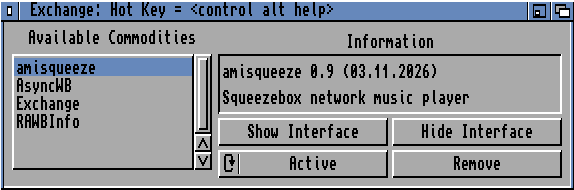
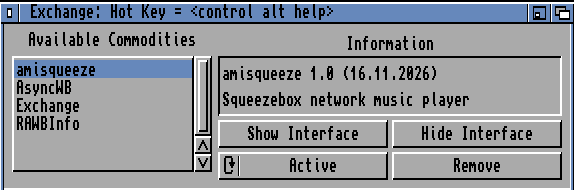
Release amisqueeze 1.0
Checks before the tag on this build, in WinUAE (JIT, 68882 with compfpu):
the eight scenarios of run-scenarios.py OK, Music Assistant's two
included; Version FULL gives "amisqueeze 1.0 (11/16/2026)" and
"amisqueeze.fpu 1.0 (11/16/2026)". By ear (the user): amisqueeze
AUDIO=PAULA, song-44k.flac from LMS, the right pitch, clean, the channels
in place. SHA-256 of the executables: amisqueeze
adf495a61c273969c812c9ac2000106067aa22ef2ea43ffc47e4f9d9309c4d48,
amisqueeze.fpu
d4672638088a140587bef4f1b8b034a2c1de758182e132d942eae3c7c8be5834.
make dist (release mode) and make test pass. images/exchange.png taken
again with this build (Exchange showing "amisqueeze 1.0 (16.11.2026)").

The stack measured at player-23 (AUDIO=PAULA, and amisqueeze.fpu) still
holds: since then, only a few messages changed in the code; no new
decoder, library or start-up path. The making of the archive changed
since 0.9 (names without the version, the drawer icon, make-dist.py):
the draft's .lha is to be tried in WinUAE before it is published.

From 1.0, no longer a preview: the README's status badge reads stable,
the CHANGELOG says the versions before 1.0 were previews, the draft's
notes drop "preview" (release.yml marks only 0.x as pre-release, as
releasing.md now says).

diff --git a/src/amisqueeze/slimproto.c b/src/amisqueeze/slimproto.c
@@ -24,7 +24,7 @@
  * decoded here); the server converts the rest. HasDigitalOut=1: LMS then offers its "Volume Control" setting for
  * this player, whose "Output level is fixed at 100%" sends audg with adjust 0.
  * MaxSampleRate follows: the MAXRATE option, 48000 without it. */
-#define CAPS "Model=squeezelite,ModelName=AmiSqueeze,Firmware=1.0-dev,AccuratePlayPoints=0,HasDigitalOut=1," \
+#define CAPS "Model=squeezelite,ModelName=AmiSqueeze,Firmware=1.0,AccuratePlayPoints=0,HasDigitalOut=1," \
              "MaxSampleRate="
 
 /* ---- serialisation ---- */

diff --git a/src/amisqueeze/amiga.c b/src/amisqueeze/amiga.c
@@ -42,9 +42,9 @@
  * at link time (--gc-sections), and Version would find nothing. Not const: in the data hunk. In the code hunk,
  * AmigaOS 3.2's Version read a garbled name ("amiseeze"), though the bytes were right. */
 #ifdef AMISQUEEZE_FPU
-static char version[] = "$VER: amisqueeze.fpu 1.0-dev (03.11.2026)";
+static char version[] = "$VER: amisqueeze.fpu 1.0 (16.11.2026)";
 #else
-static char version[] = "$VER: amisqueeze 1.0-dev (03.11.2026)";
+static char version[] = "$VER: amisqueeze 1.0 (16.11.2026)";
 #endif
 
 #ifdef AMISQUEEZE_FPU

diff --git a/docs/development/README.md b/docs/development/README.md
@@ -55,7 +55,7 @@ agreed with the user.
 | 0.1 to 0.7 | the player for LMS and Music Assistant: PCM, FLAC, MP3, start from the Workbench, the `.lha`, releases built by the CI | player-1 to player-8d, player-7b, part of player-10, tools-10 (LMS), publish-2 (`.lha`), publish-3 | ✅, see the [changelog](../../CHANGELOG.md) |
 | 0.8 | what the real machine shows; a lower rate asked of the server; automatic server discovery; hardening; the writing rules applied to the documentation | player-9, player-10 (discovery), player-12, player-13, player-14, player-15, player-16, player-17, tools-11, tools-13, publish-6 | ✅, see the [changelog](../../CHANGELOG.md) |
 | 0.9 | internet radios' metadata (ICY); the window shown and hidden from Exchange; finishing touches after the 0.8 reviews; the code's size and complexity checked; a readable architecture page; the technical documentation organised | player-10 (end), tools-14, player-18, player-19, publish-7, publish-8, player-20, player-21 | ✅, see the [changelog](../../CHANGELOG.md) |
-| 1.0 | `stream.c` and the unit tests split; a direct Paula output; a page on performance; a guide to the Amiga on the network, a full audit, the upload to Aminet | player-22, player-11, publish-9, publish-4, publish-5, tools-10 (Music Assistant), player-23, publish-2 (Aminet) | ⬜ |
+| 1.0 | `stream.c` and the unit tests split; a direct Paula output; a page on performance; a guide to the Amiga on the network, a full audit, the upload to Aminet | player-22, player-11, publish-9, publish-4, publish-5, tools-10 (Music Assistant), player-23, publish-2 (Aminet) | 🔶 its steps done and the checks before the tag; the draft made from the tag, then published by the user, and the upload to Aminet |
 | none yet | what the 1.0 reviews left below 75: section 5 of [1.0](reviews/1.0.md) and of its [light review](reviews/1.0-light.md); taken up when work on amisqueeze resumes, or sooner on a user's report (agreed with the user) | a step to name then | ⬜ |
 | none yet | idea: source-level debugging | tools-8 | ⬜ |
 | none | reference documents on AmigaOS for contributors, committed when ready (agreed with the user) | tools-12 | ⬜ |

diff --git a/CHANGELOG.md b/CHANGELOG.md
@@ -2,10 +2,12 @@
 
 What changed in each release of amisqueeze, the newest first. The format follows
 [Keep a Changelog](https://keepachangelog.com/en/1.1.0/); versions are those of the
-[releases](https://github.com/shadow38/amiga-network-music/releases) (tags `amisqueeze-<version>`). All of them
-are previews, until 1.0.
+[releases](https://github.com/shadow38/amiga-network-music/releases) (tags `amisqueeze-<version>`). The versions
+before 1.0 were previews.
 
 ## [Unreleased]
+
+## [1.0] - 2026-11-16
 
 ### Added
 
@@ -279,7 +281,8 @@ Lyrion Music Server (LMS) as a player and plays through AHI.
 - Options `SERVER`, `PORT`, `NAME`, `MAC`, `UNIT` (AHI unit), `SWAP`, `NOAUDIO`, `OUTPUT`, `VERBOSE`; default
   options in `ENV:amisqueeze.prefs`.
 
-[Unreleased]: https://github.com/shadow38/amiga-network-music/compare/amisqueeze-0.9...HEAD
+[Unreleased]: https://github.com/shadow38/amiga-network-music/compare/amisqueeze-1.0...HEAD
+[1.0]: https://github.com/shadow38/amiga-network-music/compare/amisqueeze-0.9...amisqueeze-1.0
 [0.9]: https://github.com/shadow38/amiga-network-music/compare/amisqueeze-0.8...amisqueeze-0.9
 [0.8]: https://github.com/shadow38/amiga-network-music/compare/amisqueeze-0.7...amisqueeze-0.8
 [0.7]: https://github.com/shadow38/amiga-network-music/compare/amisqueeze-0.6...amisqueeze-0.7

diff --git a/docs/development/releasing.md b/docs/development/releasing.md
@@ -65,8 +65,8 @@ The archives are made by GitHub from the tag (`.github/workflows/release.yml`, s
 
 - runs `make dist` through the Docker way of `tools/amiga-make.sh`, with the pinned image;
 - checks that the archives bear the tag's version, read from their readme (their names hold none);
-- makes a **draft** pre-release with the archives, their `.sha256` and the readme. Its notes hold the SHA-256
-  lines and a place for the rest.
+- makes a **draft** release, a pre-release for a 0.x version, with the archives, their `.sha256` and the readme.
+  Its notes hold the SHA-256 lines and a place for the rest.
 
 **The notes** describe this version only, its known limits as plain facts. Nothing about later versions (agreed
 with the maintainer; the roadmap stays in the plan).

diff --git a/README.md b/README.md
@@ -5,7 +5,7 @@ your local network and driven like any other player in the house.
 
 [![tests](https://github.com/shadow38/amiga-network-music/actions/workflows/tests.yml/badge.svg)](https://github.com/shadow38/amiga-network-music/actions/workflows/tests.yml)
 [![latest release](https://img.shields.io/github/v/release/shadow38/amiga-network-music?include_prereleases&display_name=release&label=latest%20release)](https://github.com/shadow38/amiga-network-music/releases)
-![status: preview until 1.0](https://img.shields.io/badge/status-preview%20until%201.0-orange) |
+![status: stable](https://img.shields.io/badge/status-stable-brightgreen) |
 AmigaOS 3.x | 68020 or better | sound through AHI or on Paula directly | MIT licence
 
 ## How it works

diff --git a/docs/development/phase-3-release.md b/docs/development/phase-3-release.md
@@ -76,6 +76,7 @@ Back to the [plan](README.md).
   `.readme`, made by the CI from the tag as a draft, its `.lha` tried in WinUAE before the user publishes it.
   amisqueeze 0.8: the same, the tag on `dev` and `main` moved forward to it once published.
   amisqueeze 0.9: the same.
+  amisqueeze 1.0: the same.
 - **Branches** (agreed with the user): `main` holds the last published version, so that the
   repository's page, its README and the user guide describe what can be downloaded. The work goes on in `dev`. At
   a release, `main` moves forward to the tagged commit. From the 0.8 release on: until then, `main` keeps the 0.8

diff --git a/docs/user-guide.md b/docs/user-guide.md
@@ -3,7 +3,7 @@
 This guide tells how to set up and use amisqueeze, then lists every option, message and known limit. What
 amisqueeze is and what the Amiga needs: the [README](../README.md).
 
-Version 1.0 in development. The latest release, 0.9, is a preview (see [what has been tried](#what-has-been-tried)).
+Version 1.0, tried on a real A1200 and in WinUAE (see [what has been tried](#what-has-been-tried)).
 
 **Using amisqueeze**: [installing](#installing) | [settings for your Amiga](#settings-for-your-amiga) |
 [sound (AHI)](#sound-ahi) | [server setup](#server-setup) | [starting](#starting-amisqueeze) |
